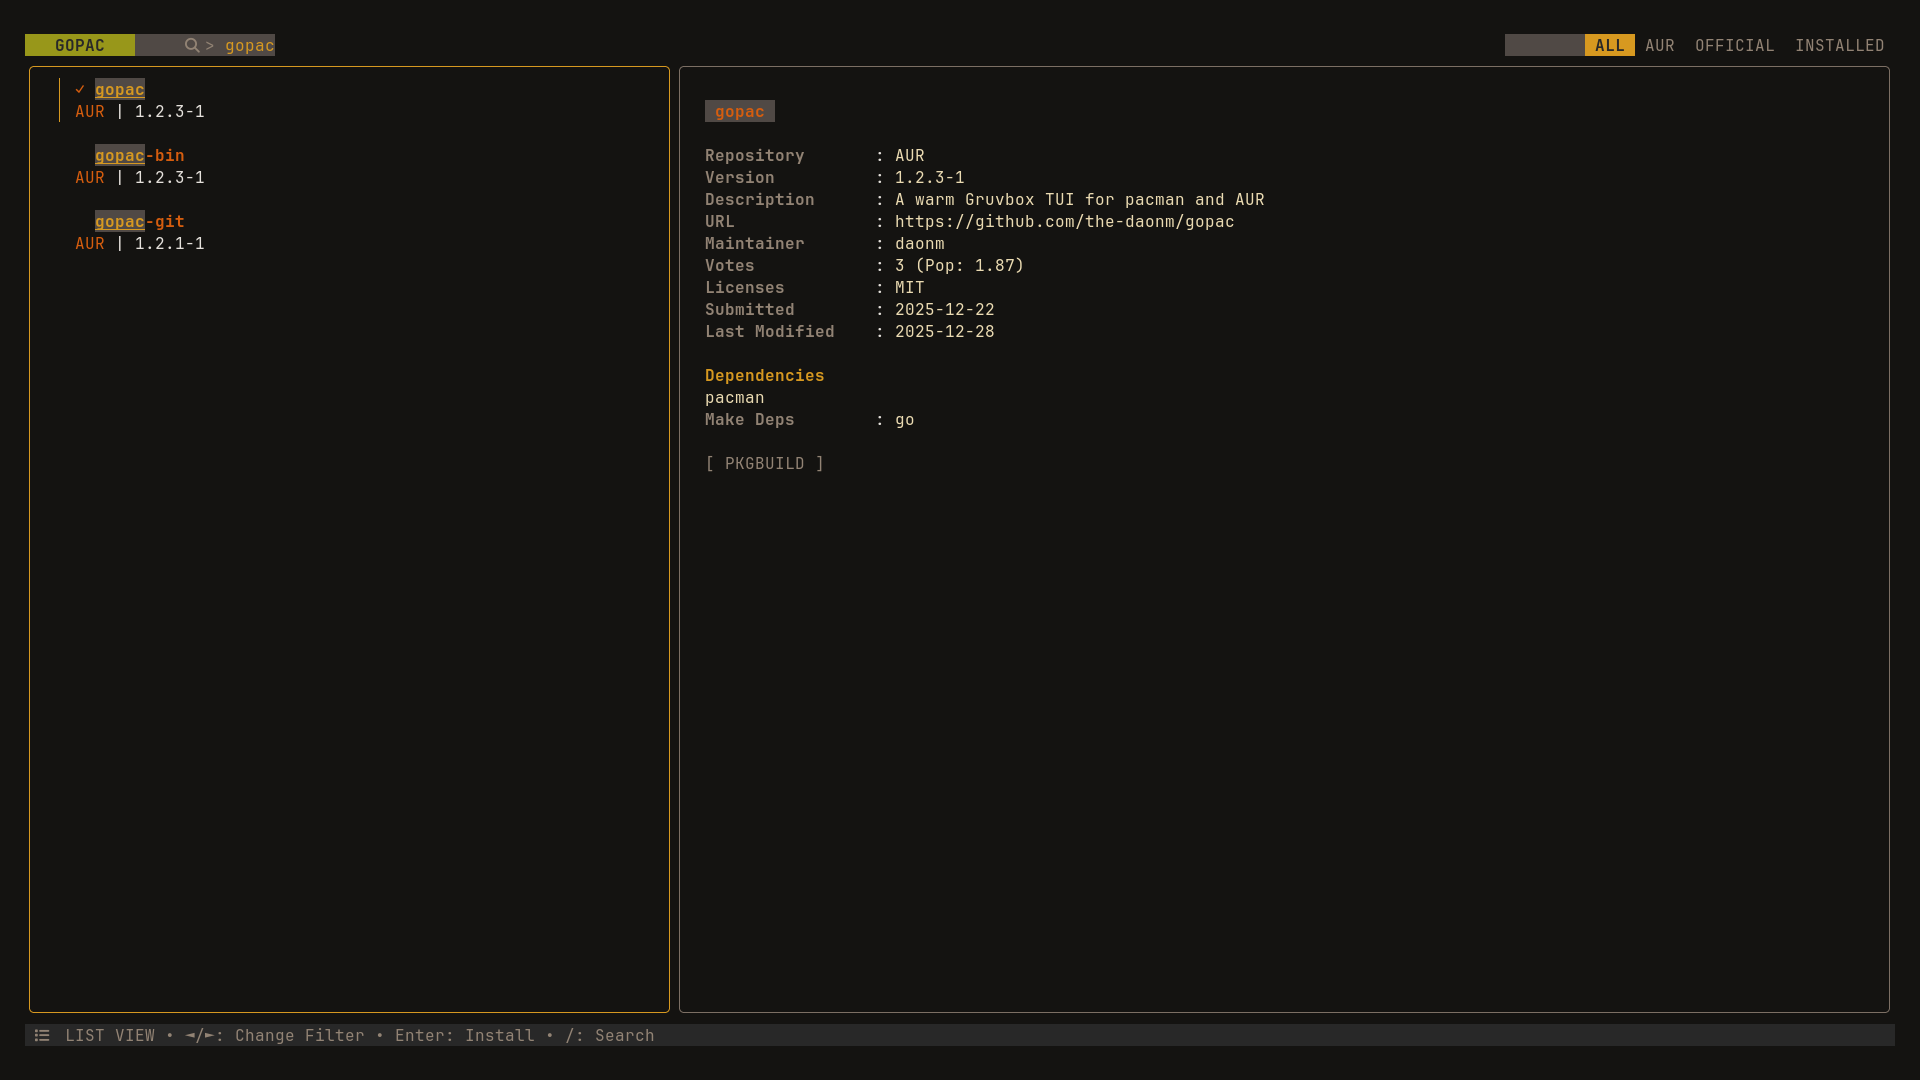
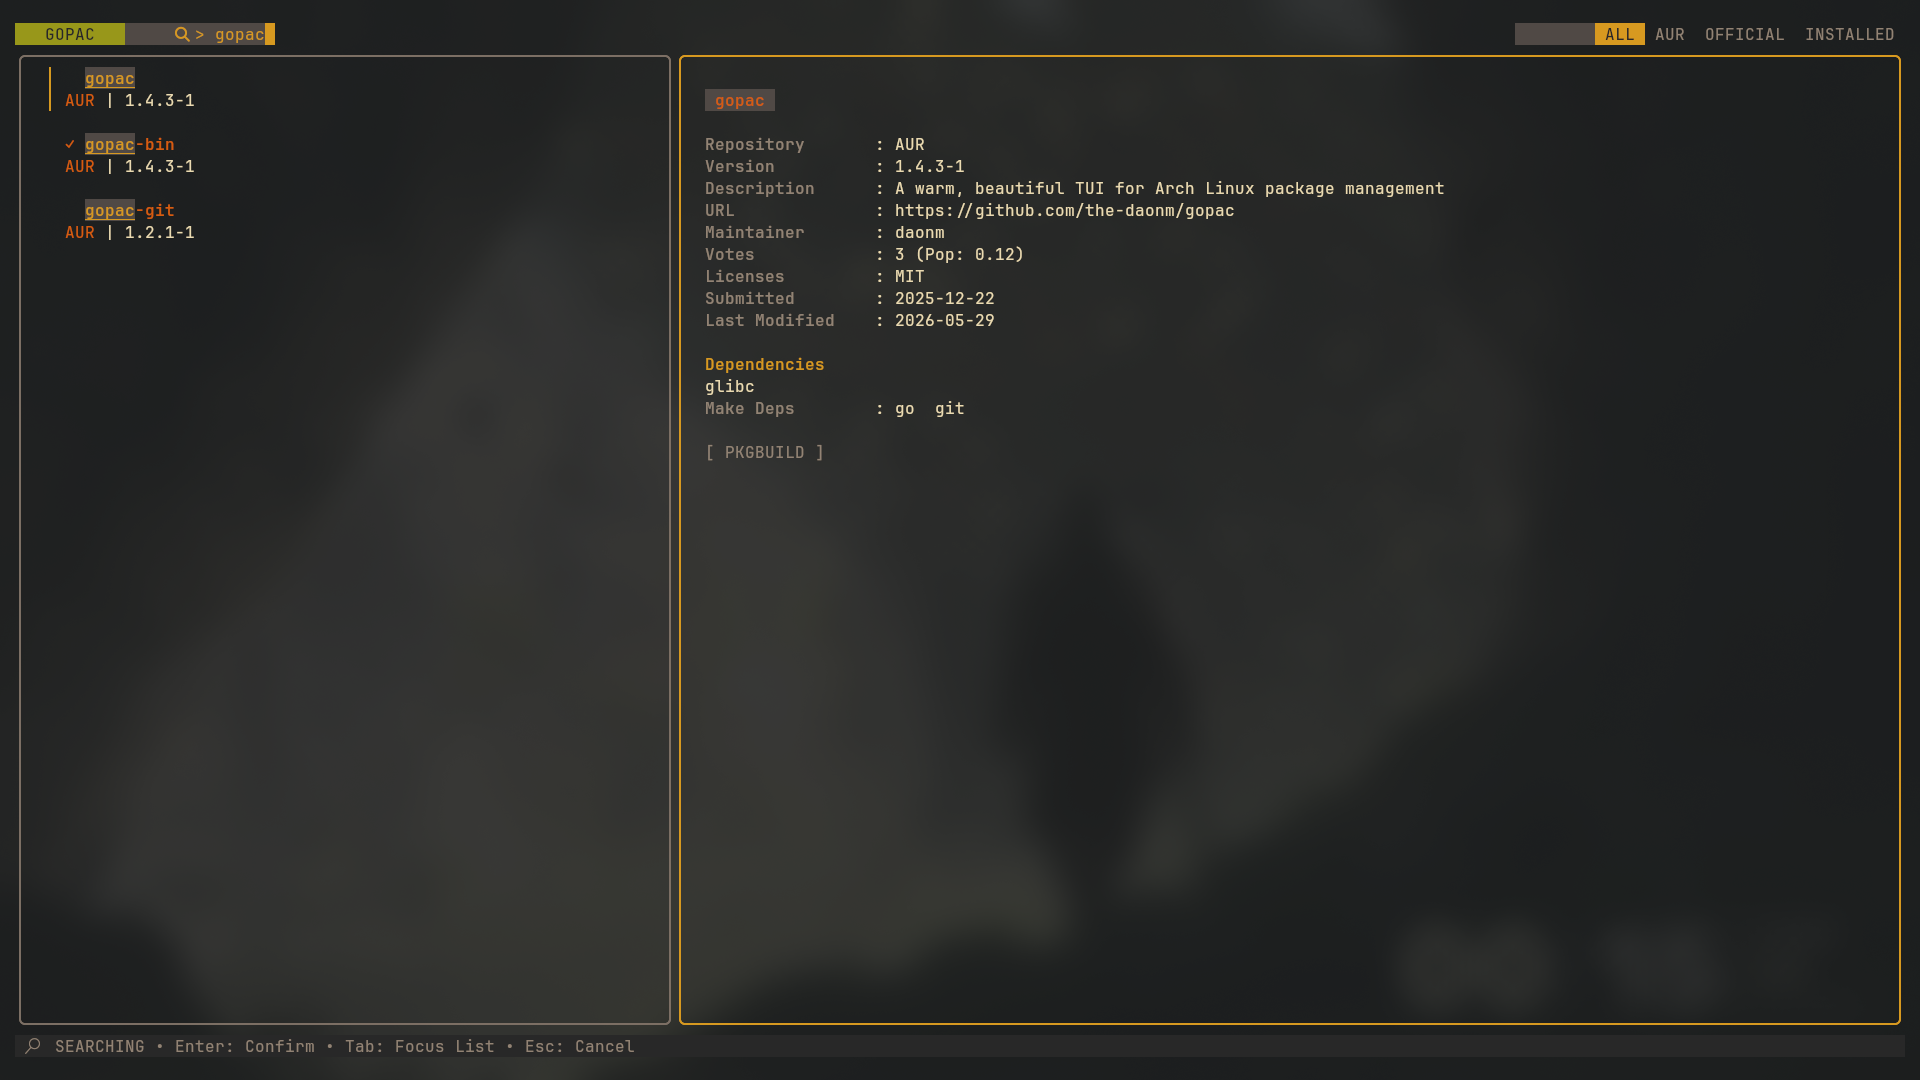
docs: upgrade README with video and clean design

diff --git a/README.md b/README.md
@@ -1,79 +1,180 @@
-# gopac
+<p align="center">
+  <a href="https://aur.archlinux.org/packages/gopac/"><img src="https://img.shields.io/static/v1?label=gopac&message=v1.5.0&color=1793d1&style=flat-square" alt="AUR Package" /></a>
+  <a href="https://aur.archlinux.org/packages/gopac-bin/"><img src="https://img.shields.io/static/v1?label=gopac-bin&message=v1.5.0&color=1793d1&style=flat-square" alt="AUR Binary Package" /></a>
+  <a href="LICENCE"><img src="https://img.shields.io/static/v1?label=license&message=MIT&color=ea6962&style=flat-square" alt="License" /></a>
+</p>
 
-[![gopac](https://img.shields.io/static/v1?label=gopac&message=v1.4.3&color=1793d1&style=for-the-badge&logo=archlinux)](https://aur.archlinux.org/packages/gopac/)
-[![gopac-bin](https://img.shields.io/static/v1?label=gopac-bin&message=v1.4.3&color=1793d1&style=for-the-badge&logo=archlinux)](https://aur.archlinux.org/packages/gopac-bin/)
+<h1 align="center">gopac</h1>
+<p align="center"><strong>A warm, beautiful Terminal User Interface (TUI) for Arch Linux package management, written in Go.</strong></p>
 
-A warm, beautiful TUI for Arch Linux package management, written in Go.
-**gopac** allows you to search, view, and install packages from both the official Arch repositories and the AUR simultaneously.
+<p align="center">
+  <img src="demo.gif" width="100%" style="max-width: 800px; border-radius: 8px;" alt="gopac demo" />
+</p>
 
-> [!NOTE]
-> This application uses Nerd Font icons. For the best experience, please use a [Nerd Font](https://www.nerdfonts.com/) in your terminal.
-
-![Screenshot](screenshot.png)
+---
 
 ## Features
 
-- **Unified Search**: Search Official repos and AUR at the same time.
-- **Smart Sorting**: Exact matches and installed packages appear first.
-- **Beautiful UI**: Built with [Bubble Tea](https://github.com/charmbracelet/bubbletea) using a cozy Gruvbox theme.
-- **Detailed Views**: View maintainer info, votes, versions, and more.
-- **Fast**: Written in Go for speed.
+- **Unified Search**: Search through Official Arch repositories and the AUR simultaneously.
+- **Smart Sorting**: Exact matches and already installed packages bubbled to the top.
+- **Modern Aesthetics**: Cozy layouts with full theme customization (Gruvbox, OneDark, Dracula, Nord, Catppuccin).
+- **Detailed Package Info**: View maintainer, votes, version histories, and raw **PKGBUILD** files directly in the interface.
+- **Bulk & Safe Operations**: Queue multiple package installations or removals. Review detailed package plans and safety warnings before execution.
+- **Speed & Portability**: Built with Go and Charmbracelet's `bubbletea` for high performance and low dependencies.
 
-## Installation
+---
 
-### From AUR
+## Screenshots
 
-```bash
-yay -S gopac # paru -S gopac
-```
+<details>
+  <summary>Click to expand screenshots</summary>
+  <br>
+  <p align="center">
+    <img src="screenshot.png" alt="gopac Search View" width="800px" style="border-radius: 8px;" />
+  </p>
+</details>
 
-### Manual Build
+---
 
-```bash
-git clone https://github.com/the-daonm/gopac.git
-cd gopac
-go build
-sudo mv gopac /usr/bin/
-mkdir -p ~/.config/fish/completions
-cp completions/gopac.fish ~/.config/fish/completions/
-```
+## Keybindings
 
-## Usage
+`gopac` features intuitive keyboard navigation. Press `?` inside the app to toggle the help overlay.
 
-Run the app:
+| Key | Action | Context |
+| :--- | :--- | :--- |
+| `q` | Quit application | Global |
+| `?` | Toggle help overlay | Global |
+| `/` | Focus search bar | Global |
+| `tab` | Cycle focus (Search ➔ List ➔ Details) | Global |
+| `shift+tab` | Cycle focus backwards | Global |
+| `U` | Perform system upgrade (`pacman -Syu` / helper equivalent) | Global |
+| `I` | Process queued operations (Install/Remove modal) | Global |
+| `C` | Clear marked package queue | Global |
+| `p` | Toggle AUR PKGBUILD view | Global (for AUR packages) |
+| `j` / `↓` | Select next package | List Pane |
+| `k` / `↑` | Select previous package | List Pane |
+| `h` / `←` | Switch to previous tab | List Pane (ALL ➔ AUR ➔ OFFICIAL ➔ INSTALLED) |
+| `l` / `→` | Switch to next tab | List Pane |
+| `space` | Mark package for installation/removal | List Pane |
+| `enter` | View/confirm operations for selected package | List Pane |
+| `j` / `↓` | Scroll details down line-by-line | Details Pane |
+| `k` / `↑` | Scroll details up line-by-line | Details Pane |
+| `ctrl+d` | Page down details (10 lines) | Details Pane |
+| `ctrl+u` | Page up details (10 lines) | Details Pane |
+| `esc` | Back to package list focus | Details / Search Pane |
 
-```bash
-gopac
-```
+---
 
 ## Configuration
 
-**gopac** looks for a configuration file at `~/.config/gopac/config.yaml`.
-
-Example configuration:
+`gopac` checks for user configurations in `~/.config/gopac/config.yaml`.
 
 ```yaml
+# ~/.config/gopac/config.yaml
+
+# Set your preferred AUR helper (e.g. paru, yay, pikaur, aura, trizen)
+# If empty, gopac will auto-detect helpers in order of popularity
 aur_helper: yay
-theme: dracula
+
+# Choose your theme style
+# Supported options: gruvbox, onedark, dracula, nord, catppuccin
+theme: gruvbox
 ```
 
-### Available Themes
-- `gruvbox` (default)
-- `onedark`
-- `dracula`
-- `nord`
-- `catppuccin`
+### Supported Themes
 
-### AUR Helper
+| Theme | Config Value | Description |
+| :--- | :--- | :--- |
+| **Gruvbox** (Default) | `gruvbox` | Retro-cozy pastel style |
+| **Dracula** | `dracula` | High-contrast dark theme |
+| **OneDark** | `onedark` | Warm, balanced dark colorway |
+| **Nord** | `nord` | Clean, cool arctic palette |
+| **Catppuccin** | `catppuccin` | Soft, warm pastel design |
 
-**gopac** automatically detects your AUR helper. It checks for the following tools in this order:
-
+### Auto-Detection Order
+When `aur_helper` is not specified, `gopac` will automatically search your `$PATH` and use the first available helper:
 1. `paru`
 2. `yay`
 3. `pikaur`
 4. `aura`
 5. `trizen`
+6. `pacman` (fallback for official repositories only)
+
+You can also specify the environment variable `AUR_HELPER` to override auto-detection without writing a config file:
+```bash
+export AUR_HELPER=paru
+```
+
+---
+
+## Installation
+
+### AUR (Arch User Repository)
+
+You can install `gopac` directly using your favorite AUR helper:
+
+```bash
+# Compile and install from source
+yay -S gopac
+
+# Install pre-built binary
+yay -S gopac-bin
+```
+
+### Manual Compilation
+
+Alternatively, you can build from source:
+
+```bash
+# Clone the repository
+git clone https://github.com/the-daonm/gopac.git
+cd gopac
+
+# Build binary
+make build
+
+# Move binary to target path
+sudo mv gopac /usr/bin/
+```
+
+### Shell Autocompletions
+
+To install fish shell completions:
+
+```bash
+mkdir -p ~/.config/fish/completions
+cp completions/gopac.fish ~/.config/fish/completions/
+```
+
+---
+
+## CLI Arguments
+
+`gopac` supports several startup flags to temporarily override configurations:
+
+```bash
+Usage: gopac [flags]
+
+Flags:
+  -H, --helper     Specify AUR helper to use (e.g. paru, yay)
+  -t, --theme      Specify UI theme (gruvbox, onedark, dracula, nord, catppuccin)
+  -v, --version    Show version information
+```
+
+### Examples
+
+```bash
+# Start gopac with the Dracula theme
+gopac -t dracula
+
+# Use paru as the AUR helper
+gopac --helper paru
+```
+
+---
 
 ## License
 
-MIT
+This project is licensed under the **MIT License** - see the [LICENCE](LICENCE) file for details.
+
+
